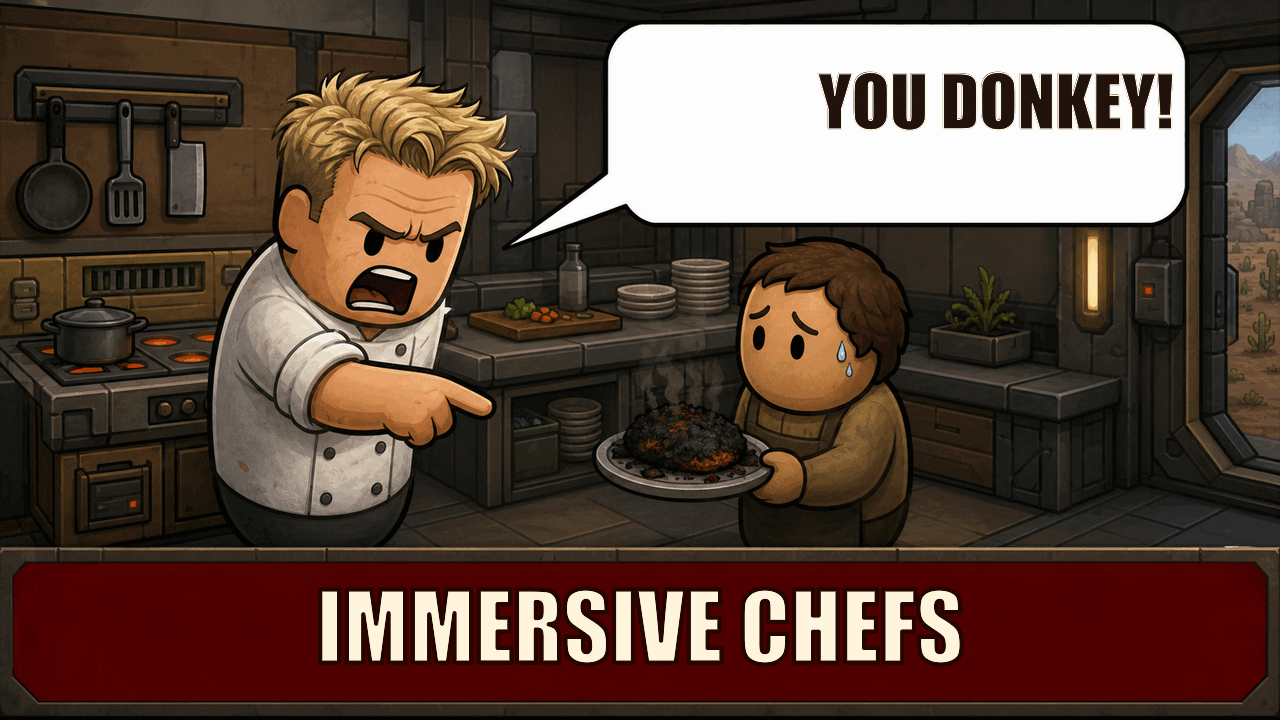
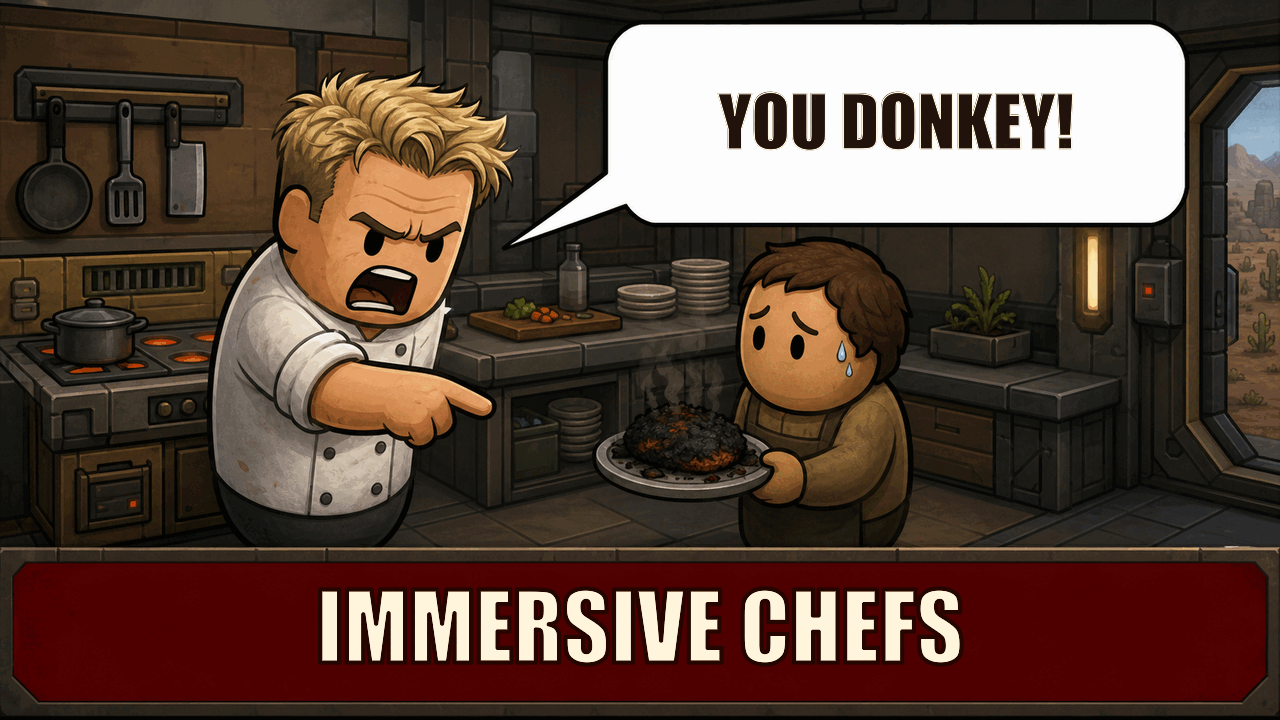
fix(immersive-chefs): center preview speech text

Changed region(s): [[0.5625, 0.0917, 0.9375, 0.2139]]

diff --git a/tests/ImmersiveChefs.Tests/VisualAssetPackageTests.cs b/tests/ImmersiveChefs.Tests/VisualAssetPackageTests.cs
@@ -726,6 +726,14 @@ public sealed class VisualAssetPackageTests
 
         AssertPreview(workshopPath, 1280, 720);
         AssertPreview(aboutPath, 640, 360);
+        AssertSpeechBubbleTextCentered(
+            workshopPath,
+            new Rectangle(620, 40, 552, 162),
+            maximumCenterOffset: 4.0);
+        AssertSpeechBubbleTextCentered(
+            aboutPath,
+            new Rectangle(310, 20, 276, 81),
+            maximumCenterOffset: 2.0);
 
         var temporaryRoot = Path.Combine(
             TestContext.CurrentContext.WorkDirectory,
@@ -1725,6 +1733,58 @@ public sealed class VisualAssetPackageTests
             Assert.That(bitmap.Width, Is.EqualTo(expectedWidth), path);
             Assert.That(bitmap.Height, Is.EqualTo(expectedHeight), path);
             Assert.That(new FileInfo(path).Length, Is.LessThan(1024 * 1024), path);
+        });
+    }
+
+    private static void AssertSpeechBubbleTextCentered(
+        string path,
+        Rectangle bubbleInterior,
+        double maximumCenterOffset)
+    {
+        if (!File.Exists(path))
+        {
+            return;
+        }
+
+        using var bitmap = new Bitmap(path);
+        var minimumX = int.MaxValue;
+        var minimumY = int.MaxValue;
+        var maximumX = int.MinValue;
+        var maximumY = int.MinValue;
+        for (var y = bubbleInterior.Top; y < bubbleInterior.Bottom; y++)
+        {
+            for (var x = bubbleInterior.Left; x < bubbleInterior.Right; x++)
+            {
+                var pixel = bitmap.GetPixel(x, y);
+                if (pixel.R >= 180 || pixel.G >= 180 || pixel.B >= 180)
+                {
+                    continue;
+                }
+
+                minimumX = Math.Min(minimumX, x);
+                minimumY = Math.Min(minimumY, y);
+                maximumX = Math.Max(maximumX, x);
+                maximumY = Math.Max(maximumY, y);
+            }
+        }
+
+        Assert.That(maximumX, Is.GreaterThanOrEqualTo(minimumX), "No dark bubble text was found in " + path);
+        Assert.That(maximumY, Is.GreaterThanOrEqualTo(minimumY), "No dark bubble text was found in " + path);
+        var textCenterX = (minimumX + maximumX) / 2.0;
+        var textCenterY = (minimumY + maximumY) / 2.0;
+        var bubbleCenterX = bubbleInterior.Left + (bubbleInterior.Width - 1) / 2.0;
+        var bubbleCenterY = bubbleInterior.Top + (bubbleInterior.Height - 1) / 2.0;
+
+        Assert.Multiple(() =>
+        {
+            Assert.That(
+                Math.Abs(textCenterX - bubbleCenterX),
+                Is.LessThanOrEqualTo(maximumCenterOffset),
+                $"Speech-bubble text is not horizontally centered in {path}.");
+            Assert.That(
+                Math.Abs(textCenterY - bubbleCenterY),
+                Is.LessThanOrEqualTo(maximumCenterOffset),
+                $"Speech-bubble text is not vertically centered in {path}.");
         });
     }
 

diff --git a/openspec/changes/specify-immersive-chefs-gameplay/specs/visual-assets/spec.md b/openspec/changes/specify-immersive-chefs-gameplay/specs/visual-assets/spec.md
@@ -19,13 +19,14 @@ When its fallback Def is active, the microwave artwork SHALL depict only a compa
 - **THEN** none of those Defs points at its former vanilla placeholder
 
 ### Requirement: The mod has game and Workshop preview artwork
-The release SHALL include `About/Preview.png` as a 640x360, 16:9 PNG below 1 MiB for RimWorld's mod list. It SHALL also retain a 1280x720, 16:9 Workshop preview master below 1 MiB in the release-source area, from which the About preview is deterministically downscaled. Both SHALL depict a recognizable angry celebrity-chef-inspired RimWorld pawn shouting through a speech bubble containing the exact text `YOU DONKEY!`, with a large, legible `IMMERSIVE CHEFS` banner. The composition SHALL be an original RimWorld-style parody illustration rather than copied television photography or meme raster, and the exact title/bubble text SHALL be applied deterministically after image generation so spelling and safe margins are testable.
+The release SHALL include `About/Preview.png` as a 640x360, 16:9 PNG below 1 MiB for RimWorld's mod list. It SHALL also retain a 1280x720, 16:9 Workshop preview master below 1 MiB in the release-source area, from which the About preview is deterministically downscaled. Both SHALL depict a recognizable angry celebrity-chef-inspired RimWorld pawn shouting through a speech bubble containing the exact text `YOU DONKEY!`, with a large, legible `IMMERSIVE CHEFS` banner. The bubble text's visible bounds SHALL be horizontally and vertically centered within the body of the speech bubble with balanced white space. The composition SHALL be an original RimWorld-style parody illustration rather than copied television photography or meme raster, and the exact title/bubble text SHALL be applied deterministically after image generation so spelling, centering, and safe margins are testable.
 
 At least two generated compositions SHALL be compared at both final sizes. The selected image SHALL keep the pawn, speech bubble, banner, and kitchen context readable in RimWorld's mod list without cropping, tiny text, or misleading gameplay imagery. Rejected candidates SHALL remain in ignored evidence paths and only the selected preview files SHALL enter release sources/package.
 
 #### Scenario: Browse Immersive Chefs in the mod list
 - **WHEN** the player selects Immersive Chefs in RimWorld's native Mods screen
 - **THEN** the 640x360 preview visibly shows the chef pawn, exact `YOU DONKEY!` bubble, and `IMMERSIVE CHEFS` banner without clipping or unreadable text
+- **AND** `YOU DONKEY!` is centered horizontally and vertically in the speech-bubble body rather than crowding one edge
 
 #### Scenario: Validate the Workshop preview source
 - **WHEN** release package tests inspect the 1280x720 master and 640x360 About derivative

diff --git a/docs/VisualAssets.md b/docs/VisualAssets.md
@@ -42,14 +42,14 @@ competes with the mod premise. The unselected comparison remains under ignored
 `artifacts/VisualAssets/Preview`.
 
 `scripts/Build-ImmersiveChefsPreview.ps1` owns the text, not the generator. It reproducibly writes
-`YOU DONKEY!` into the bubble and `IMMERSIVE CHEFS` into the banner, producing a 1280×720 Workshop
+`YOU DONKEY!` into the horizontal and vertical center of the bubble and `IMMERSIVE CHEFS` into the banner, producing a 1280×720 Workshop
 master and a 640×360 RimWorld `About/Preview.png`. Both are palette-compressed PNGs below 1 MiB.
 The exact Workshop master is an internal 16:9 authoring choice; Valve's UGC API fixes the image
 preview ceiling below 1 MiB but does not prescribe that exact pixel size. The 640×360 About image
 matches the most common 16:9 size in the first 100 locally installed RimWorld preview files. The
 deterministic output hashes are
[4 lines of base64/hex data omitted]
 
 Rebuild both previews from the selected source without editing the generated PNGs:
 
@@ -61,14 +61,11 @@ Keep `About/Preview.png` at 640×360 PNG and below 1 MiB. Treat the 1280×720 Wo
 repository's authoring/export contract; verify the upload service's current byte and format rules
 again when publishing because they are external rather than a RimWorld Def contract.
 
-Final native inspection used the exact Core/Harmony/Immersive Chefs/Dev Gateway package order in
-`artifacts/GatewaySmoke/20260810T000531403Z/20260810T000532068Z`. The selected Immersive Chefs row
-showed the complete 16:9 image without cropping: chef, apprentice, ruined meal, `YOU DONKEY!`, and
-`IMMERSIVE CHEFS` were all legible at 1600×900. The same run packaged product DLL SHA-256
[1 lines of base64/hex data omitted]
-restored the normal configuration hashes, sanitized its credentials, and contained no error or
-warning lines in `Player.log` beyond the separately captured intentional Dev Gateway activation
-warning in the structured stream.
+The centered build was visually preflighted in RimWorld's native Mods screen at 1600×900 in
+`artifacts/GatewaySmoke/20260810T094442300Z`; the complete image was uncropped and both labels were
+legible. That run is deliberately not final acceptance evidence because it exposed the launcher's
+obsolete Core-before-Harmony order. OpenSpec task 11.9 remains open until the reviewed asset is
+reobserved in a fresh Harmony-before-Core process.
 
 ## Cookware set
 
